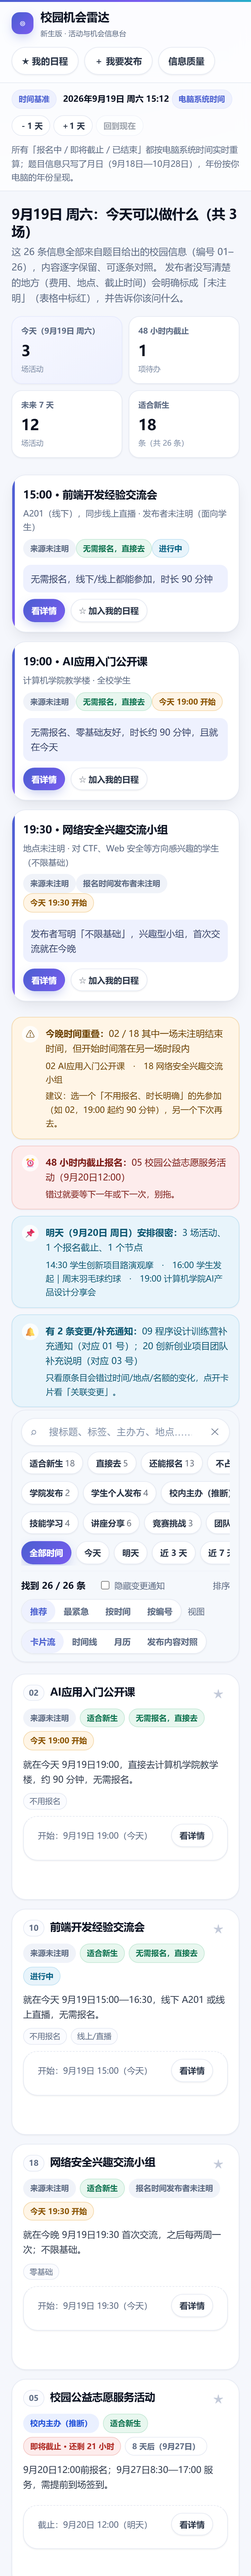
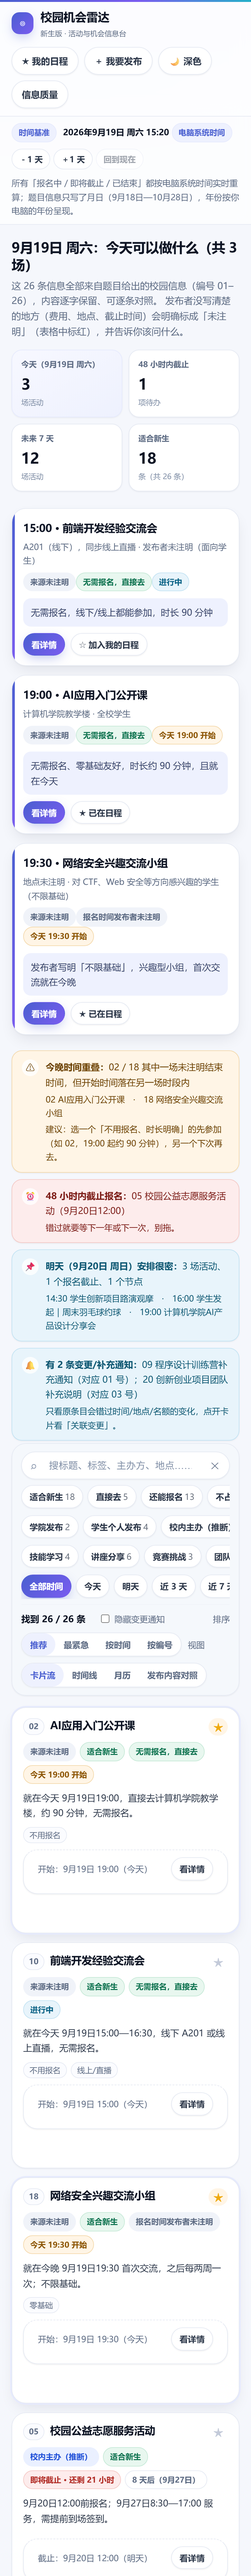
新增深色/浅色主题切换，进一步提升质感
主题
- 顶栏新增主题切换按钮（🌙 深色 / ☀ 浅色），一键切换且记住选择
- 首次打开跟随系统 prefers-color-scheme；首屏渲染前用内联脚本定好主题，避免闪色
- 深色配色只覆盖 CSS 变量 + 必要的材质（卡片/抽屉/弹窗/日历/表单/滚动条），结构与圆角与浅色完全一致
- 切换时仅过渡颜色（0.28s），不触发布局动画；A11y：aria-pressed / aria-label / color-scheme 同步

修复
- 主题偏好以 JSON 存储（"dark"），首屏预置脚本未解析 JSON，导致手选主题被系统偏好覆盖 → 改为 JSON.parse
- 截图脚本：主题改为显式写入偏好后重载（原先靠点击切换，在系统偏好为深色时会得到相反结果）

回归：95 项断言全绿（数据 7 / 逻辑 34 / e2e 54），15 张截图（含 2 张深色）全部「横向溢出=无」

diff --git a/assets/app.css b/assets/app.css
@@ -498,3 +498,126 @@ section.block { margin: 22px 0 24px; }
 @media print {
   .toolbar, .topbar, .basisbar, .drawer, .scrim, .dlg, .rail { display: none !important; }
 }
+
+/* ==================================================================
+ * 深色模式：只覆盖变量 + 少量必须单独处理的材质，
+ * 结构、圆角、间距与浅色完全一致，保证两套主题观感统一。
+ * ================================================================== */
+:root { color-scheme: light; }
+[data-theme="dark"] {
+  color-scheme: dark;
+
+  --ink: #e9eef8;
+  --ink-2: #c9d4e6;
+  --muted: #93a1b8;
+  --muted-2: #7c8ba3;
+  --bg: #0b111c;
+  --surface: #131b29;
+  --surface-2: #172032;
+  --line: rgba(255, 255, 255, .10);
+  --line-2: rgba(255, 255, 255, .06);
+
+  --brand: #7b8cff;
+  --brand-2: #a97dff;
+  --brand-ink: #0b111c;
+  --brand-soft: rgba(123, 140, 255, .16);
+  --brand-soft-2: rgba(123, 140, 255, .26);
+
+  --good: #6ce0a8;      --good-bg: rgba(30, 190, 130, .14);  --good-line: rgba(30, 190, 130, .30);
+  --warn: #f7c777;      --warn-bg: rgba(230, 160, 40, .14);   --warn-line: rgba(230, 160, 40, .30);
+  --danger: #ff9a90;    --danger-bg: rgba(240, 80, 70, .15);  --danger-line: rgba(240, 80, 70, .32);
+  --live: #7fd2f0;      --live-bg: rgba(40, 170, 220, .14);   --live-line: rgba(40, 170, 220, .30);
+  --muted-bg: rgba(255, 255, 255, .06);
+
+  --src-school: #9db4ff;   --src-school-bg: rgba(29, 78, 216, .22);
+  --src-college: #7fd8ea;  --src-college-bg: rgba(14, 116, 144, .22);
+  --src-student: #c3a4ff;  --src-student-bg: rgba(109, 58, 214, .22);
+  --src-unknown: #9aa8bf;  --src-unknown-bg: rgba(255, 255, 255, .07);
+
+  --shadow-1: 0 1px 2px rgba(0, 0, 0, .5);
+  --shadow-2: 0 2px 6px rgba(0, 0, 0, .45), 0 14px 32px -10px rgba(0, 0, 0, .65);
+  --shadow-3: 0 4px 10px rgba(0, 0, 0, .5), 0 26px 56px -14px rgba(0, 0, 0, .75);
+  --shadow-brand: 0 8px 22px -6px rgba(123, 140, 255, .45);
+  --ring: 0 0 0 3px rgba(123, 140, 255, .30);
+}
+[data-theme="dark"] body {
+  background:
+    radial-gradient(1100px 520px at 12% -8%, rgba(80, 100, 220, .18) 0%, rgba(80, 100, 220, 0) 62%),
+    radial-gradient(900px 480px at 92% -12%, rgba(150, 90, 240, .16) 0%, rgba(150, 90, 240, 0) 58%),
+    var(--bg);
+  background-attachment: fixed;
+}
+[data-theme="dark"] .topbar { background: rgba(14, 20, 32, .78); }
+[data-theme="dark"] .basisbar { background: rgba(14, 20, 32, .6); }
+[data-theme="dark"] .toolbar { background: rgba(13, 19, 31, .86); }
+[data-theme="dark"] .card,
+[data-theme="dark"] .todaycard,
+[data-theme="dark"] .railcard,
+[data-theme="dark"] .cal,
+[data-theme="dark"] .tlday,
+[data-theme="dark"] .rawtable,
+[data-theme="dark"] .foot,
+[data-theme="dark"] .kpi,
+[data-theme="dark"] .stat { background: var(--surface); }
+[data-theme="dark"] .kpi.accent { background: linear-gradient(150deg, rgba(123, 140, 255, .16), rgba(169, 125, 255, .10)); }
+[data-theme="dark"] .stat { background: linear-gradient(180deg, var(--surface), var(--surface-2)); }
+[data-theme="dark"] .cell { background: var(--surface); }
+[data-theme="dark"] .cell.out { background: rgba(255, 255, 255, .02); color: #55627a; }
+[data-theme="dark"] .cell.busy { background: rgba(230, 160, 40, .10); }
+[data-theme="dark"] .cell:hover { background: var(--brand-soft); }
+[data-theme="dark"] .btn { background: var(--surface-2); }
+[data-theme="dark"] .btn:hover { background: #1d2740; border-color: rgba(255, 255, 255, .18); }
+[data-theme="dark"] .btn.primary { background: linear-gradient(135deg, var(--brand), var(--brand-2)); color: #0b111c; }
+[data-theme="dark"] .btn.danger { background: var(--surface-2); }
+[data-theme="dark"] .btn.danger:hover { background: var(--danger-bg); }
+[data-theme="dark"] .chip { background: var(--surface-2); }
+[data-theme="dark"] .chip:hover { background: #1d2740; }
+[data-theme="dark"] .chip[aria-pressed="true"] { background: linear-gradient(135deg, var(--brand), var(--brand-2)); color: #0b111c; }
+[data-theme="dark"] .seg { background: var(--surface-2); }
+[data-theme="dark"] .seg button[aria-pressed="true"] { background: var(--brand-soft); color: var(--brand); }
+[data-theme="dark"] .searchbox input { background: rgba(255, 255, 255, .05); color: var(--ink); }
+[data-theme="dark"] .searchbox input::placeholder { color: var(--muted-2); }
+[data-theme="dark"] .badge.b-outline { background: transparent; }
+[data-theme="dark"] .tag { background: rgba(255, 255, 255, .05); }
+[data-theme="dark"] .quote { background: linear-gradient(180deg, rgba(255, 255, 255, .04), rgba(255, 255, 255, .02)); }
+[data-theme="dark"] .ask { background: rgba(255, 255, 255, .04); border-color: rgba(255, 255, 255, .12); }
+[data-theme="dark"] .drawer { background: var(--surface); }
+[data-theme="dark"] .drawer > header { background: linear-gradient(180deg, #16202f, #131b29); }
+[data-theme="dark"] .drawer .close,
+[data-theme="dark"] .dlg .panel > header { background: rgba(19, 27, 41, .95); }
+[data-theme="dark"] .drawer .close { background: var(--surface-2); }
+[data-theme="dark"] .dlg .panel { background: var(--surface); }
+[data-theme="dark"] .scrim { background: rgba(0, 0, 0, .62); }
+[data-theme="dark"] .rawtable th { background: linear-gradient(180deg, #172032, #131b29); }
+[data-theme="dark"] .tlday > header { background: linear-gradient(180deg, #172032, #131b29); }
+[data-theme="dark"] .tlday li.k-deadline { background: rgba(230, 160, 40, .08); }
+[data-theme="dark"] .tlday li.k-milestone { background: rgba(40, 170, 220, .07); }
+[data-theme="dark"] .todaycard .why { color: #cdd8ff; }
+[data-theme="dark"] .alert.warn { color: #f4d9a8; }
+[data-theme="dark"] .alert.danger { color: #ffc4bd; }
+[data-theme="dark"] .alert.good { color: #b6f0d3; }
+[data-theme="dark"] .alert.info { color: #bfe9f8; }
+[data-theme="dark"] .alert .ic { background: rgba(255, 255, 255, .07); }
+[data-theme="dark"] .tip { color: #f3d7a3; }
+[data-theme="dark"] .tip.risk { color: #ffc0b8; }
+[data-theme="dark"] .empty { border-color: rgba(255, 255, 255, .16); }
+[data-theme="dark"] .unknownval { color: var(--danger); }
+[data-theme="dark"] .card.risk::before { background: linear-gradient(90deg, #ff7a66, #ffab7a); }
+[data-theme="dark"] .card.notice::before { background: linear-gradient(90deg, #35b6d8, #6fd7ea); }
+[data-theme="dark"] .form input,
+[data-theme="dark"] .form select,
+[data-theme="dark"] .form textarea { background: rgba(255, 255, 255, .05); color: var(--ink); }
+[data-theme="dark"] .checklist input { accent-color: var(--brand); }
+[data-theme="dark"] ::-webkit-scrollbar-thumb { background: #2b3650; background-clip: content-box; }
+[data-theme="dark"] ::-webkit-scrollbar-thumb:hover { background: #3a4763; background-clip: content-box; }
+/* 主题切换时的柔和过渡（只过渡色彩，不做布局动画） */
+html.theme-anim, html.theme-anim * {
+  transition: background-color .28s var(--ease), color .28s var(--ease), border-color .28s var(--ease) !important;
+}
+
+/* 交互细节（浅色/深色共用） */
+.kpi { transition: transform .2s var(--ease), box-shadow .2s var(--ease); }
+.kpi:hover { transform: translateY(-1px); box-shadow: var(--shadow-2); }
+.railcard { transition: border-color .2s var(--ease), box-shadow .2s var(--ease); }
+.railcard:hover { border-color: #d8e0f2; box-shadow: var(--shadow-2); }
+[data-theme="dark"] .railcard:hover { border-color: rgba(255, 255, 255, .18); }

diff --git a/js/app.js b/js/app.js
@@ -1006,6 +1006,36 @@
   }
 
   /* =============== 17. 事件 =============== */
+
+  /* =============== 16.9 主题：深色 / 浅色 =============== */
+  var THEME_KEY = 'theme';
+  function currentTheme() {
+    var t = document.documentElement.getAttribute('data-theme');
+    return t === 'dark' ? 'dark' : 'light';
+  }
+  function applyTheme(t, animate) {
+    var dark = t === 'dark';
+    if (animate) {
+      document.documentElement.classList.add('theme-anim');
+      setTimeout(function () { document.documentElement.classList.remove('theme-anim'); }, 320);
+    }
+    document.documentElement.setAttribute('data-theme', dark ? 'dark' : 'light');
+    STORE.write(THEME_KEY, dark ? 'dark' : 'light');
+    var meta = document.getElementById('themeColor');
+    if (meta) meta.setAttribute('content', dark ? '#0b111c' : '#f5f7fc');
+    var btn = document.getElementById('themeToggle');
+    if (btn) {
+      btn.textContent = dark ? '☀ 浅色' : '🌙 深色';
+      btn.setAttribute('aria-pressed', dark ? 'true' : 'false');
+      btn.setAttribute('aria-label', dark ? '切换到浅色模式' : '切换到深色模式');
+    }
+  }
+  function initTheme() {
+    var stored = STORE.read(THEME_KEY, null);
+    var t = stored === 'dark' || stored === 'light' ? stored
+      : (window.matchMedia && window.matchMedia('(prefers-color-scheme: dark)').matches ? 'dark' : 'light');
+    applyTheme(t, false);
+  }
   /** 首屏 KPI 条：把「今天有几场 / 多久截止 / 一周多少 / 多少适合新生」提到最上面 */
   function renderKpis(n) {
     var host = $('#kpis');
@@ -1202,6 +1232,7 @@
         renderAll();
         break;
       }
+      case 'toggle-theme': applyTheme(currentTheme() === 'dark' ? 'light' : 'dark', true); break;
       case 'clock-reset': state.offsetDays = 0; STORE.write('clockOffsetDays', 0); renderAll(); break;
       default: break;
     }
@@ -1230,6 +1261,7 @@
   }
 
   function init() {
+    initTheme();
     readHash();
     renderAll();
 

diff --git a/index.html b/index.html
@@ -5,7 +5,19 @@
 <meta name="viewport" content="width=device-width, initial-scale=1">
 <title>校园机会雷达 · 新生版｜26 条校园活动与机会，一眼看懂什么时候该做什么</title>
 <meta name="description" content="以电脑系统时间为基准，把 26 条校园活动与机会信息整理成新生能看懂、能筛选、能参与、能发布的页面：来源分层、发布内容对照、时间冲突与截止提醒、报名状态与风险提示。">
-<meta name="color-scheme" content="light">
+<meta name="color-scheme" content="light dark">
+<meta name="theme-color" content="#f5f7fc" id="themeColor">
+<script>
+/* 首屏前置：在 CSS 之前定好主题，避免浅色闪一下 */
+(function () {
+  try {
+    var raw = localStorage.getItem('radar.v1.theme');
+    var t = raw ? JSON.parse(raw) : null;  /* 存的是 JSON，比较前必须解析 */
+    if (t !== 'dark' && t !== 'light') t = window.matchMedia && window.matchMedia('(prefers-color-scheme: dark)').matches ? 'dark' : 'light';
+    document.documentElement.setAttribute('data-theme', t);
+  } catch (e) { document.documentElement.setAttribute('data-theme', 'light'); }
+})();
+</script>
 <link rel="stylesheet" href="assets/app.css">
 </head>
 <body>
@@ -22,6 +34,7 @@
     <div class="topactions">
       <button class="btn" data-action="open-panel" data-value="agenda">★ 我的日程</button>
       <button class="btn" data-action="open-panel" data-value="publish">＋ 我要发布</button>
+      <button class="btn" id="themeToggle" data-action="toggle-theme" aria-pressed="false" title="在深色 / 浅色之间切换">🌙 深色</button>
       <button class="btn" data-action="open-panel" data-value="quality">信息质量</button>
     </div>
   </div>

diff --git a/README.md b/README.md
@@ -4,6 +4,7 @@
 一眼看懂「今天/这周该去哪、怎么报名、要不要小心」，并且能自己发布。
 
 - 交付形态：**零依赖静态网页**（无框架、无构建、无网络请求、无 CDN），单机打开即用。
+- 主题：**深色 / 浅色一键切换**（顶栏按钮）。首次打开跟随系统 `prefers-color-scheme`，用户手选后写入 localStorage 并在首屏渲染前生效（避免闪色）。两套主题共用同一套结构与圆角，只替换颜色变量。
 - 页面结构：首屏「今天」+ **KPI 速览条**（今天几场 / 48 小时内截止 / 未来 7 天 / 适合新生），宽屏右侧是**粘性速览侧栏**（最近的截止与开场、我的日程、来源分层与风险、快速开始），窄屏自动落回单列。所有按钮统一胶囊圆角，卡片/抽屉/弹窗用同一套圆角与分层阴影。
 - 时间基准：**电脑系统时间**（页面右上角实时显示，`- 1 天 / + 1 天` 仅作演示偏移）。题目信息只写了月日（9月18日—10月28日）、没有写年份，因此**日期年份跟随你电脑的年份**——否则换一年打开，26 条会全部显示「已结束」。
 - 数据的最高原则：**发布内容逐字照录，缺失字段标「未注明」，推算内容标「推算」**——不猜、不补、不改写。
@@ -90,7 +91,7 @@ node tools/capture-shots.mjs 9222 http://127.0.0.1:8017 shots
 | `node tests/data.test.cjs` | 7 / 7 通过：26 条齐全、编号 01–26 连续、每条发布内容的关键词逐条保留、解析出的日期都能在发布内容里找到、来源分层计数（学院 2 / 学生个人 4 / 推断 3 / 未注明 17）、缺失字段仍为 null（显示「未注明」）、风险与「不适合新生」标记就位 |
 | `node tests/logic.test.cjs` | 34 / 34 通过：2025 固定年份下 26 条状态快照、冲突组恰为 9/19{02,18} 与 9/21{01,11,14}、9/20「很满」、周期推算带 derived 标记、筛选计数（适合新生 18 / 直接去 5 / 需谨慎 2 / 今天 3 / 明天 4）、排序、徽章长度阈值、自检器 5 项负向测试，以及**年份绑定**：绑定 2026 后日期整体落到 2026、冲突组不变，「每周三」「每周六」的星期核对结论随年份改变 |
 | `node tests/e2e.browser.mjs` | 47 / 47 通过：真实点击与输入跑通「搜索→筛选→空态→详情→Esc→收藏冲突→月历下钻→发布（含自查拦截）→搜索到→删除→发布内容对照→信息质量→系统时间±1天→390px 布局」，并断言**时间基准为电脑系统时间**、**已移除「使用引导」与「回到考核日」**、**全页不再出现「原文」二字**，且 **页面无控制台报错**。系统日期不是 9/19 时，依赖「今天有几场」的断言会显式跳过并计数，不误报失败 |
-| 视觉复核 | 13 张截图（`shots/`）逐张目视确认：桌面首页 / 时间线 / 月历 / 详情 / 发布 / 信息质量 / 发布内容对照 / 移动端首页、详情、月历 / 标红统一后的详情 / 系统时间基准条；每张截图同时输出「横向溢出」检查，全部为「无」 |
+| 视觉复核 | 15 张截图（`shots/`）逐张目视确认：桌面首页 / 时间线 / 月历 / 详情 / 发布 / 信息质量 / 发布内容对照 / 移动端首页、详情、月历 / 标红统一后的详情 / 系统时间基准条；每张截图同时输出「横向溢出」检查，全部为「无」 |
 | 自检器（浏览器内可见） | 信息质量页底部显示「数据自检：通过」（编号连续性、枚举合法性、缺失字段一致性、关联条目存在性） |
 
 ## 7. 验证阶段发现并修复的真实缺陷
@@ -107,6 +108,8 @@ node tools/capture-shots.mjs 9222 http://127.0.0.1:8017 shots
 8. **标红文案不统一**：同一件「没有提供」的事写了 16 种说法（`原文未注明` / `原文未注明（可能涉及费用，先问清）` / `原文未注明/发布者未确定` / `报名时间未注明，满员即止` / `长期招募，具体截止时间未注明` …），共 150 个标红单元格。已统一为 **`未注明`**：红字只写「未注明」，表格标题写明约定「标红＝未注明：发布内容没有提供」；若该字段其实有另一条规则（满员即止 / 长期招募 / 需预约）或需要提醒（费用），改用**灰色小字**补充，红字统一但不丢信息。同时修掉一处不一致：`报名方式` 原先只对严格等于「原文未注明」的写法标红，「按原文报名（原文未写明报名方式）」这类**漏标**，现按语义判定。回归断言：抽查 12 条共 89 个标红单元格必须全等于「未注明」。
 
 9. **时间基准改成系统时间后暴露的写死年份**：原来日历月份写死 `[[2025, 8], [2025, 9]]`，一旦年份跟随系统时间（本机 2026），日历上就只剩空格子、也标不出「今天」。已改为跟随绑定年份并标出「2026 年 9 月」。同时原文里「每周六」「每周三」这类星期说法，原先是在数据里写死结论（「9月23日在 2025 年历里是周二」），年份一变就成了假话——现改为**运行时按你电脑的年份核对**，对得上/对不上都会在详情里给出结论（回归断言覆盖 2025 与 2026 两种年份）。
+
+12. **深色模式的两个真实坑**：① 主题偏好用 `STORE.write`（`JSON.stringify`）存成 `"dark"`，而首屏预置脚本直接拿字符串比较，导致**用户手选的主题在下次打开时被系统偏好覆盖**——预置脚本改为 `JSON.parse` 后修复，并加了持久化断言；② 截图脚本原先用"点一次切换按钮"来拍深色图，而这台机器的系统偏好本就是深色，于是点一次反而切到浅色（且每张截图 localStorage 为空时会跟随系统）——改为**每张截图显式写入主题偏好后重新加载**，并用平均亮度校验（深色 33.6 / 浅色 243.8）。
 
 11. **截图工具的 URL 拼接 bug（差点误判成产品问题）**：给截图加缓存参数时把 `?s=` 拼到了 `#` 之后，URL 变成 `/#panel=quality?s=06-quality`，于是深链的 panel/id 值带上了尾巴，抽屉与弹窗在截图里"消失"。我先怀疑是新增的 `backdrop-filter` 与 `captureBeyondViewport` 丢图层，两次都被诊断数据推翻（单独打开同一 URL 时 `.dlg=1`，产品本身一直正常）。改为先拆 hash 再拼 query，并把视口类截图改为普通视口捕获、每张截图独立页面，13 张图全部复核通过。
 
